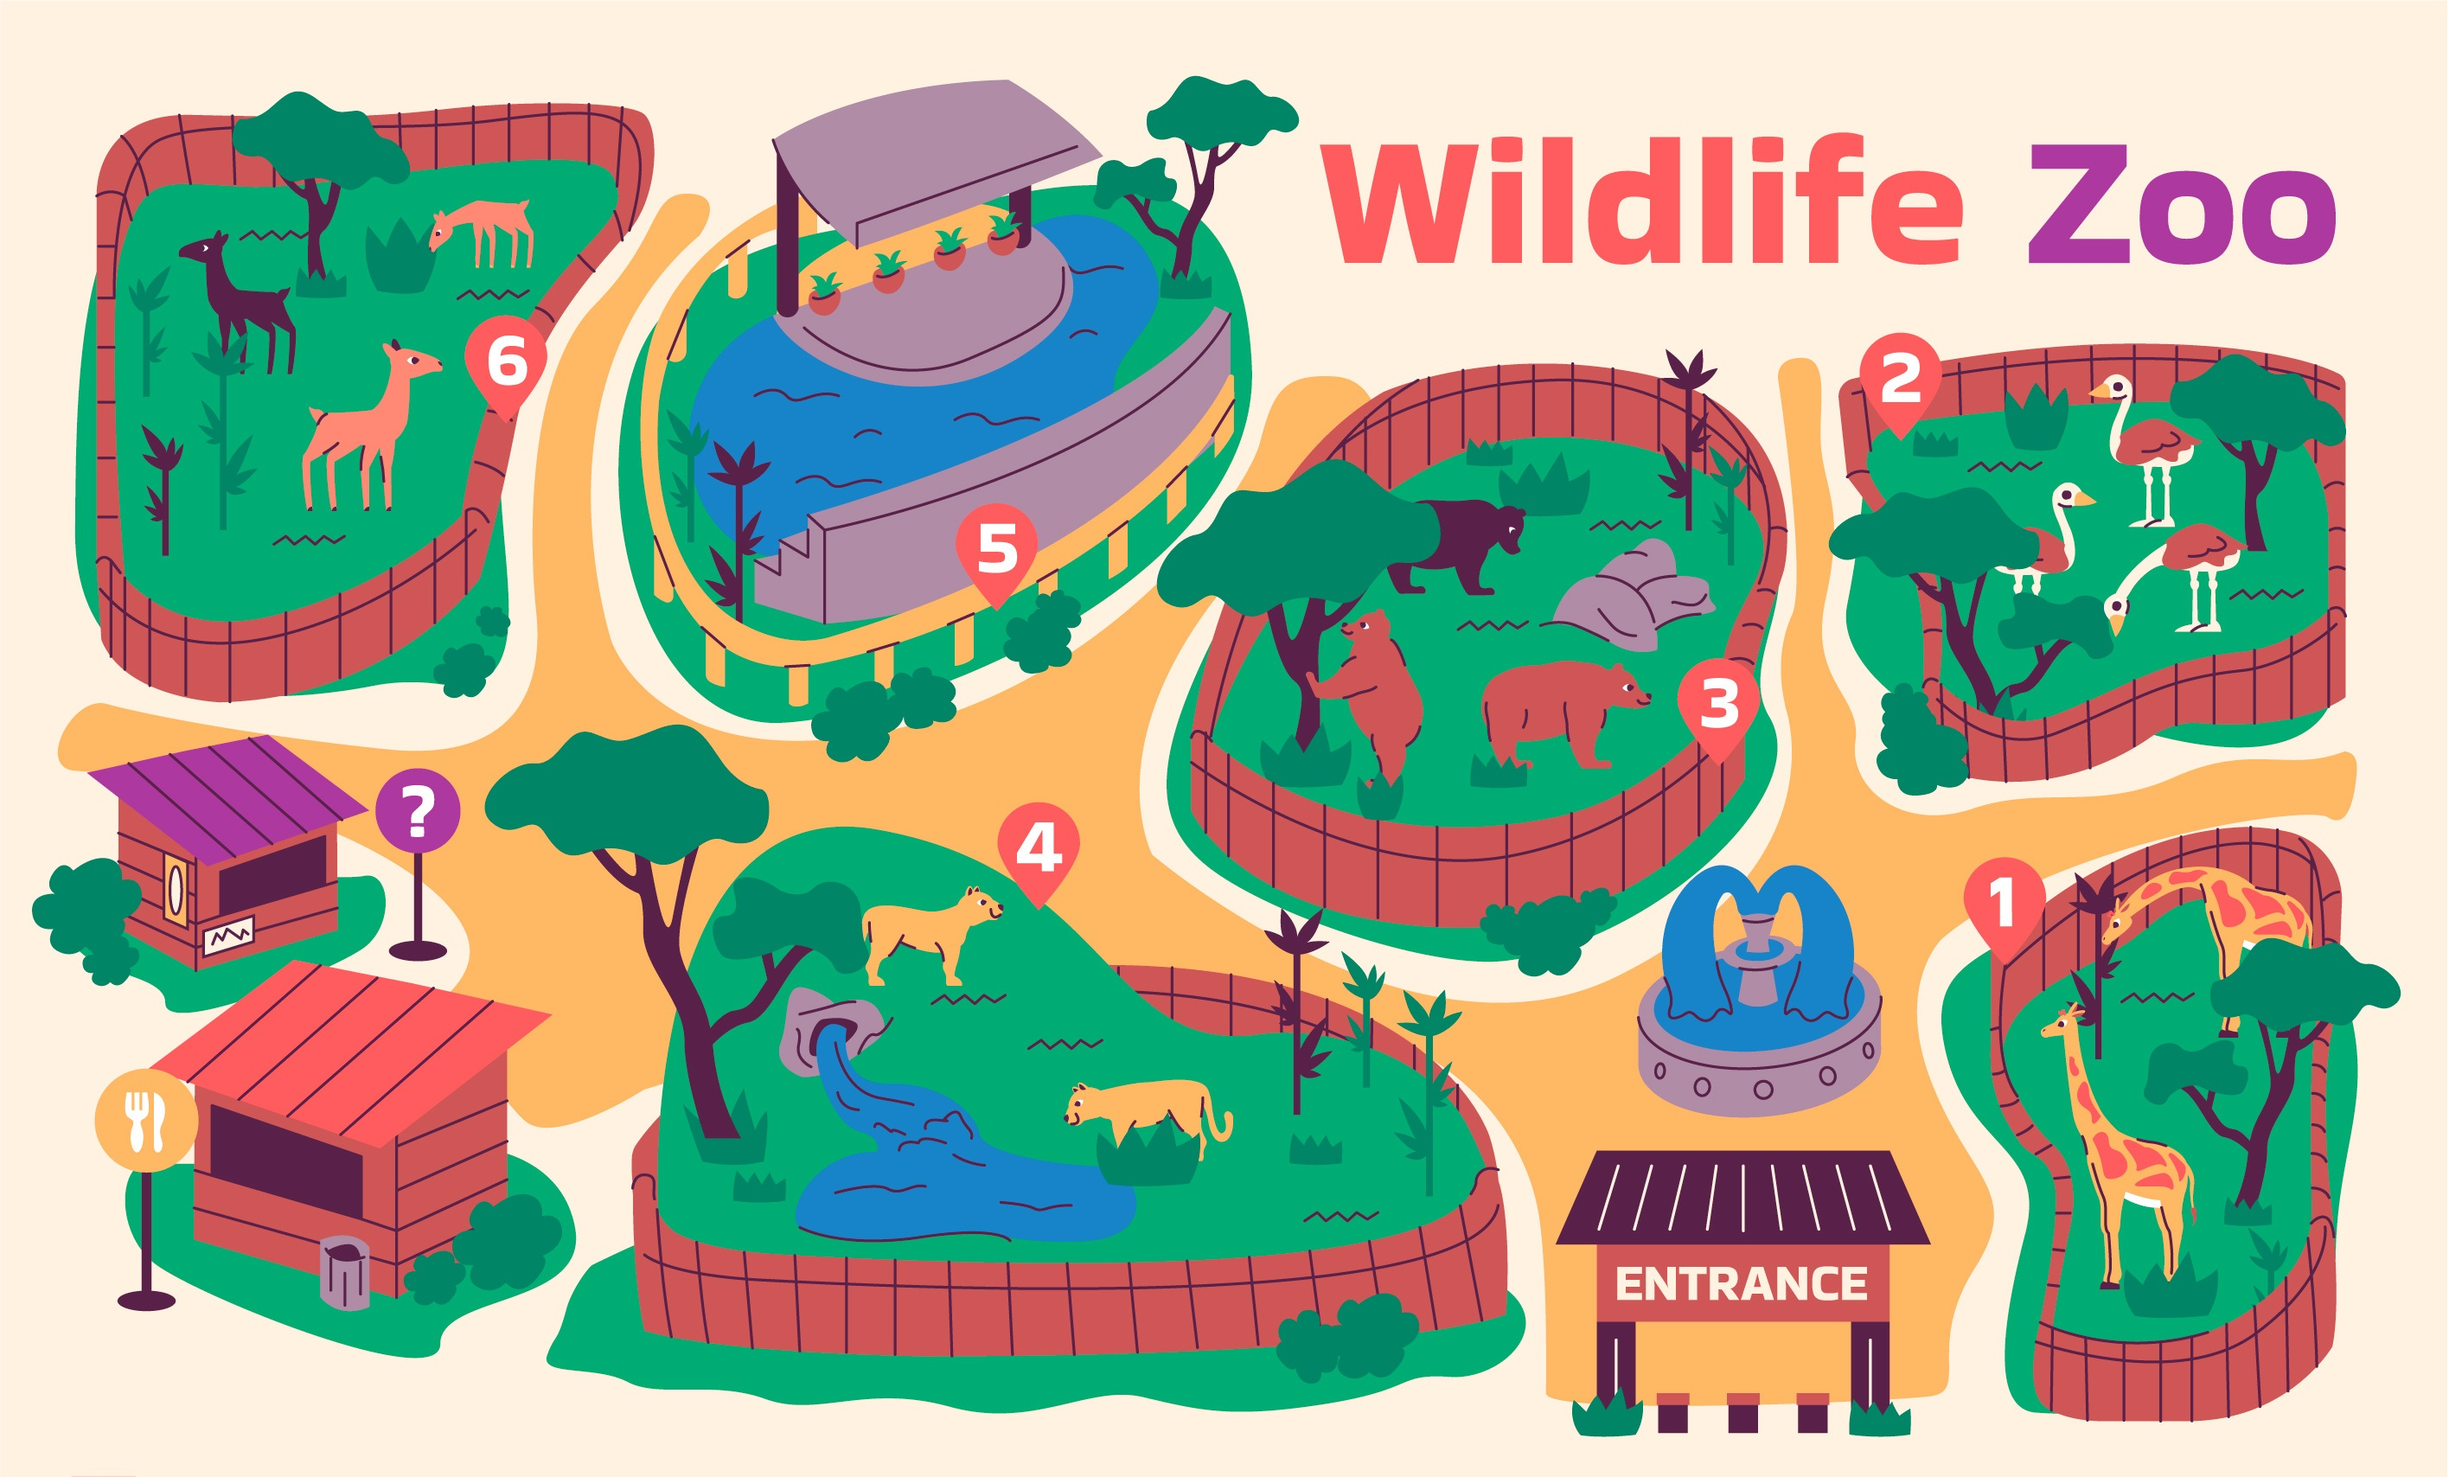
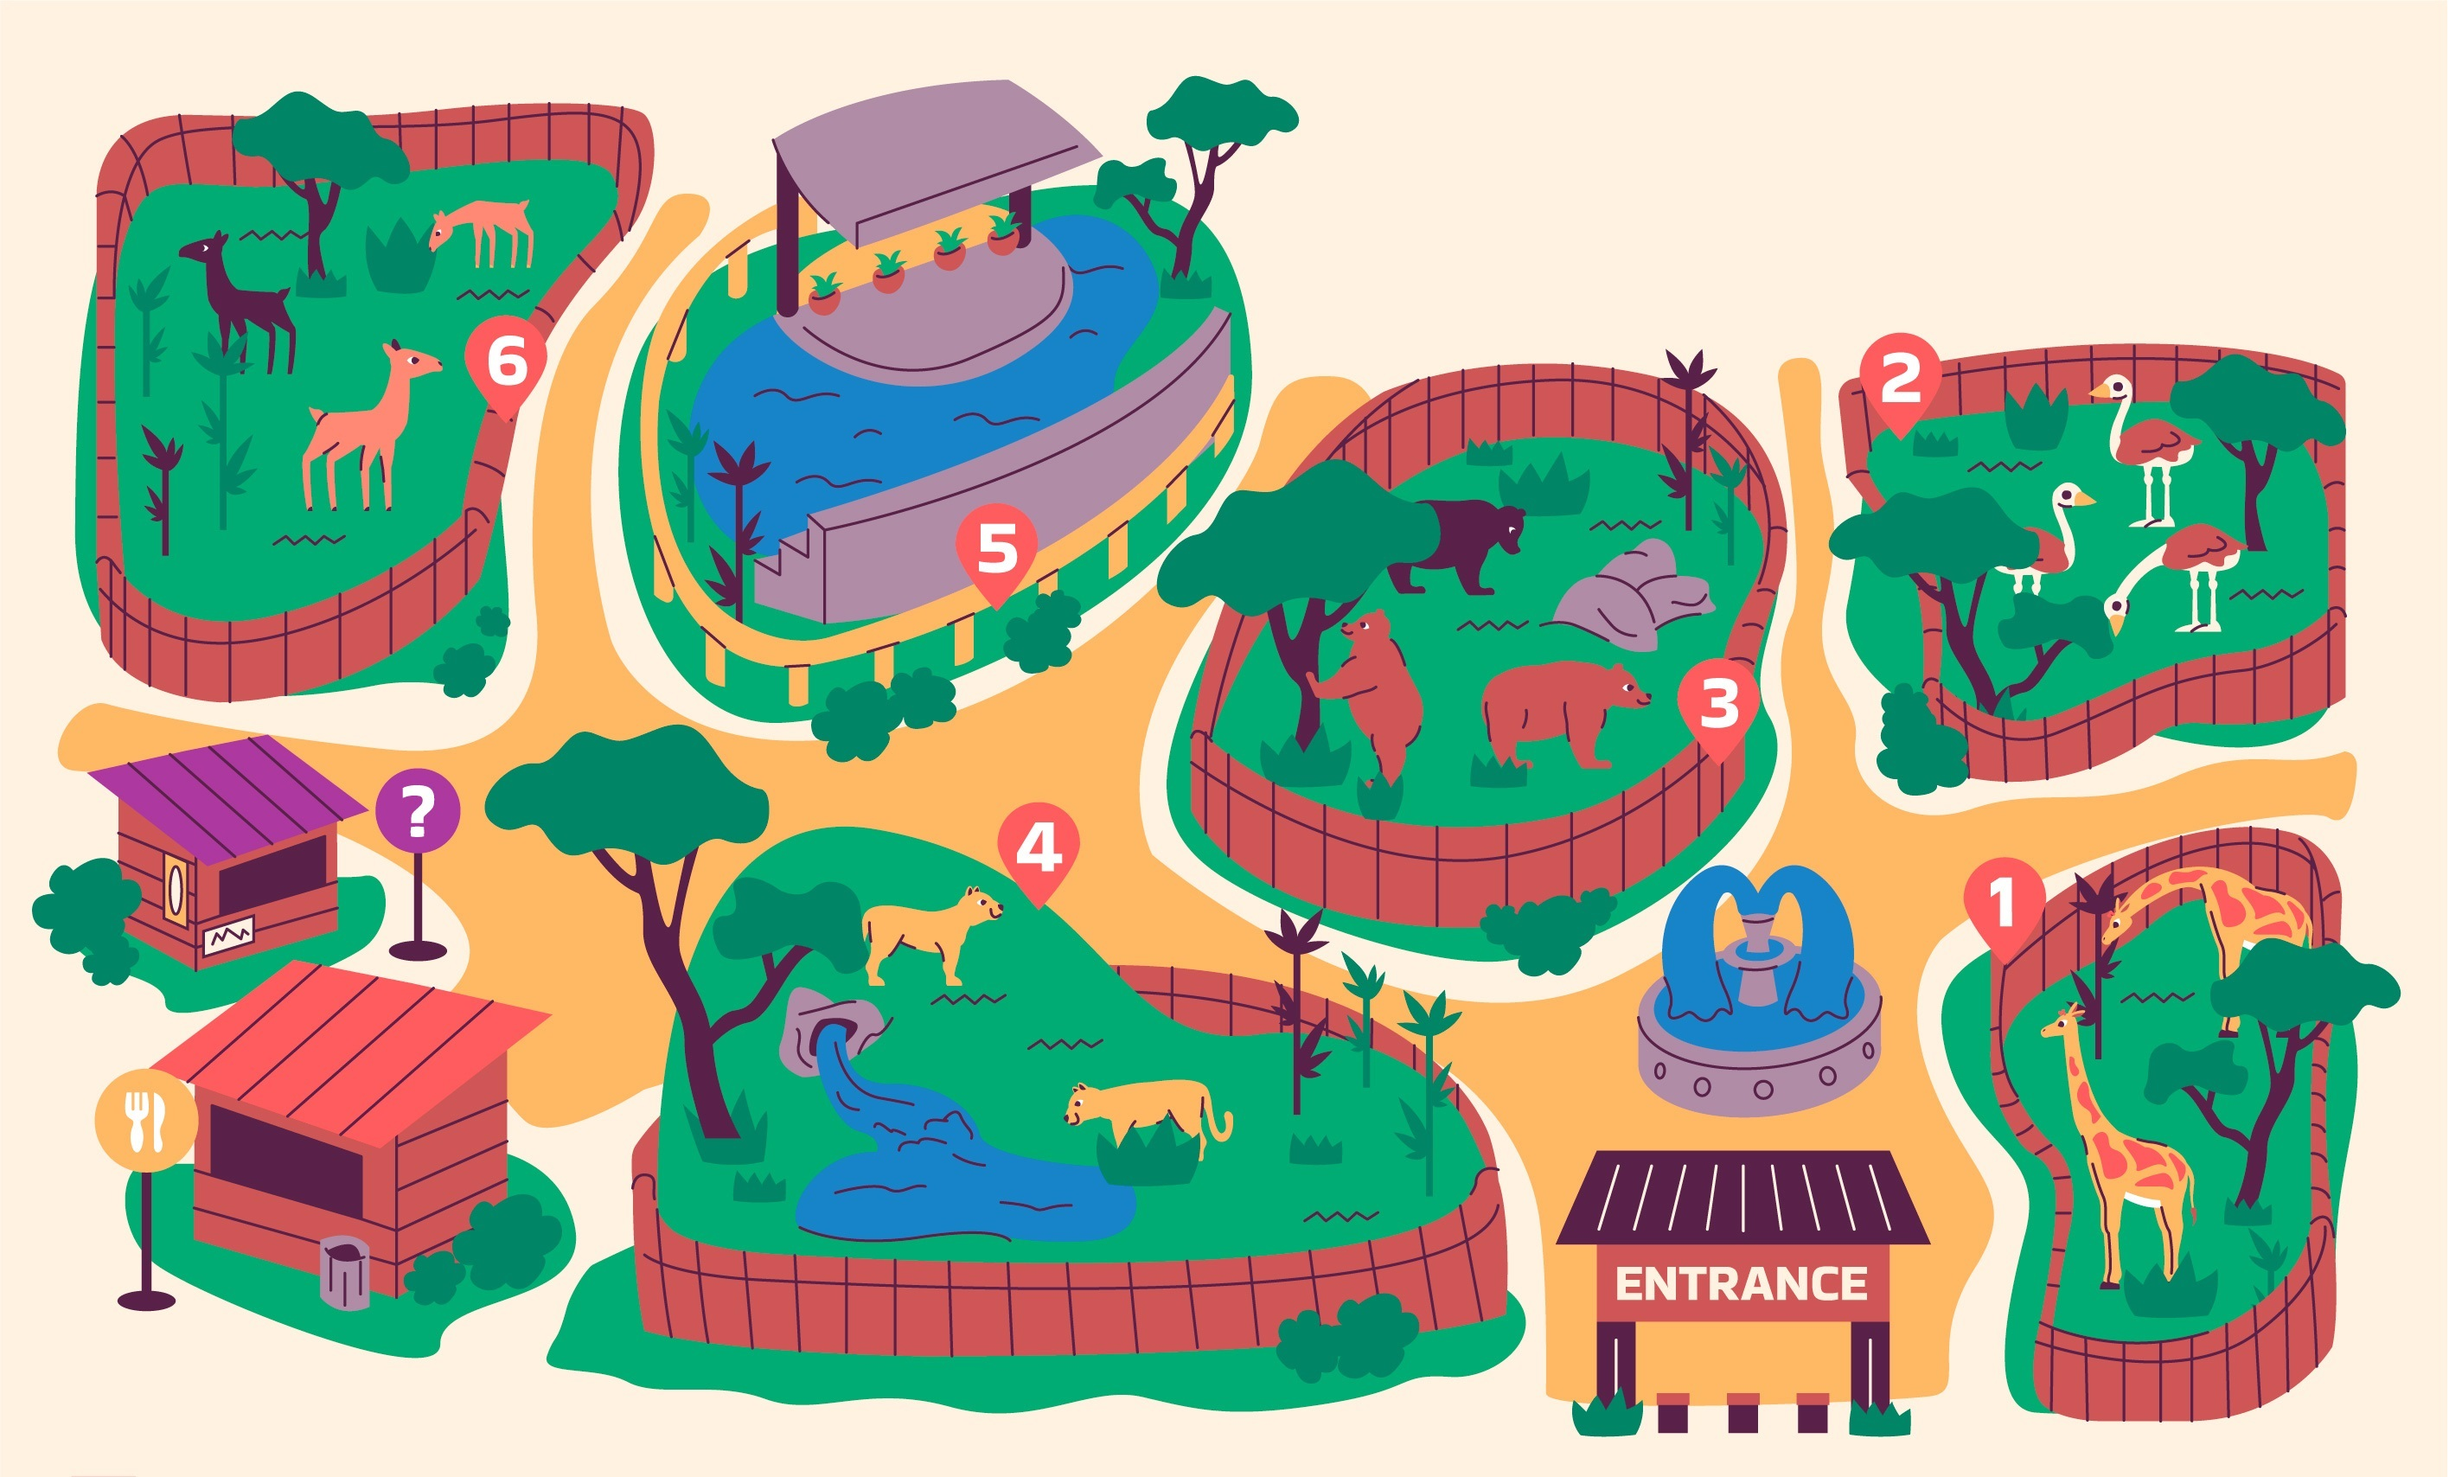
Har ändrat mest i header och försökte få bilden att funka.

Changed region(s): [[0.5282, 0.0931, 0.9633, 0.1862]]

diff --git a/css/style.css b/css/style.css
@@ -2,15 +2,46 @@
     margin: 0;
 }
 
+#grid_wrapper{
+    display: grid;
+    height: 1fr;
+
+    grid-template-columns: 1fr;
+    grid-template-rows: 80px 1fr;
+
+    grid-template-areas: 
+        "he"
+        "bo"
+    ;
+}
+
+#background{
+ 
+    background: url(..//img/background/background.jpg) no-repeat center fixed;
+    background-size: cover;
+    grid-area: "bo";
+    background-color: antiquewhite;
+}
 
 header{
-    background-color: blue;
-    height: 100px;
+    background-color: rgb(255, 245, 225);
+    grid-area: "he";
+    display: flex;
+    justify-content: space-around;
+    align-items: center;
+    border-bottom: 3px solid black;
 }
 
 body{
-    background-image: url(..//img/background/background.jpg);
-    background-repeat: no-repeat;
-    background-size: cover;
-    background-attachment: fixed;
+height: 100vh;
+}
+
+a{
+    color: black;
+    text-decoration: none;
+}
+
+a:hover{
+    opacity: 70%;
+    font-weight: bold;
 }

diff --git a/index.html b/index.html
@@ -7,8 +7,15 @@
     <title>Wildlife Zoo</title>
     <link rel="stylesheet" href="css/style.css">
 </head>
-<header>header</header>
-<body>
+<body id="grid_wrapper">
+    <header>
+        <h1>Sassy Zoo</h1>
+        <a href="resturang.html">Resturang</a>
+        <a href="information.html">Information</a>
+        <a href="djur.html">Djur</a>
+    </header>
+
+    <article id="background"></article>
     
 
 

diff --git a/resturang.html b/resturang.html
@@ -1,0 +1,13 @@
+<!DOCTYPE html>
+<html lang="en">
+<head>
+    <meta charset="UTF-8">
+    <meta http-equiv="X-UA-Compatible" content="IE=edge">
+    <meta name="viewport" content="width=device-width, initial-scale=1.0">
+    <title>Sassy Zoo Resturang</title>
+    <link rel="stylesheet" href="css/style.css">
+</head>
+<body>
+    
+</body>
+</html>

diff --git a/information.html b/information.html
@@ -1,0 +1,12 @@
+<!DOCTYPE html>
+<html lang="en">
+<head>
+    <meta charset="UTF-8">
+    <meta http-equiv="X-UA-Compatible" content="IE=edge">
+    <meta name="viewport" content="width=device-width, initial-scale=1.0">
+    <title>Information Sassy Zoo</title>
+</head>
+<body>
+    
+</body>
+</html>

diff --git a/djur.html b/djur.html
@@ -1,0 +1,12 @@
+<!DOCTYPE html>
+<html lang="en">
+<head>
+    <meta charset="UTF-8">
+    <meta http-equiv="X-UA-Compatible" content="IE=edge">
+    <meta name="viewport" content="width=device-width, initial-scale=1.0">
+    <title>Djur Sassy Zoo</title>
+</head>
+<body>
+    
+</body>
+</html>
